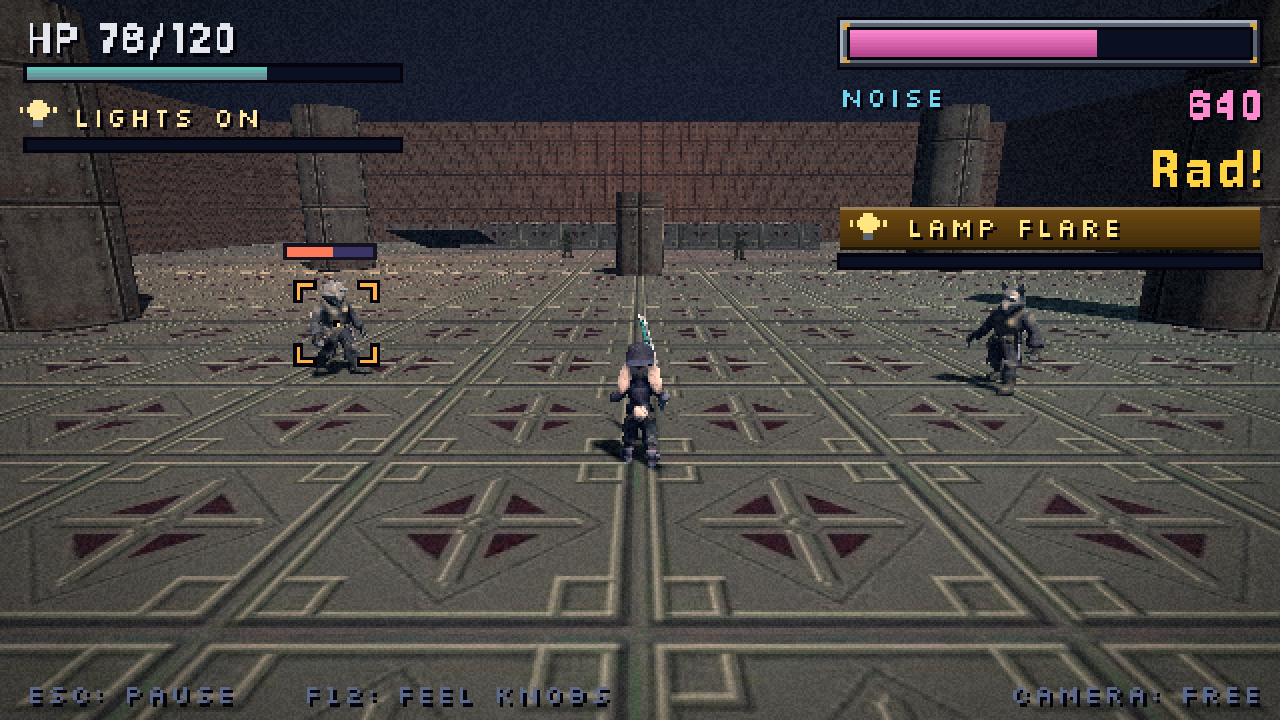
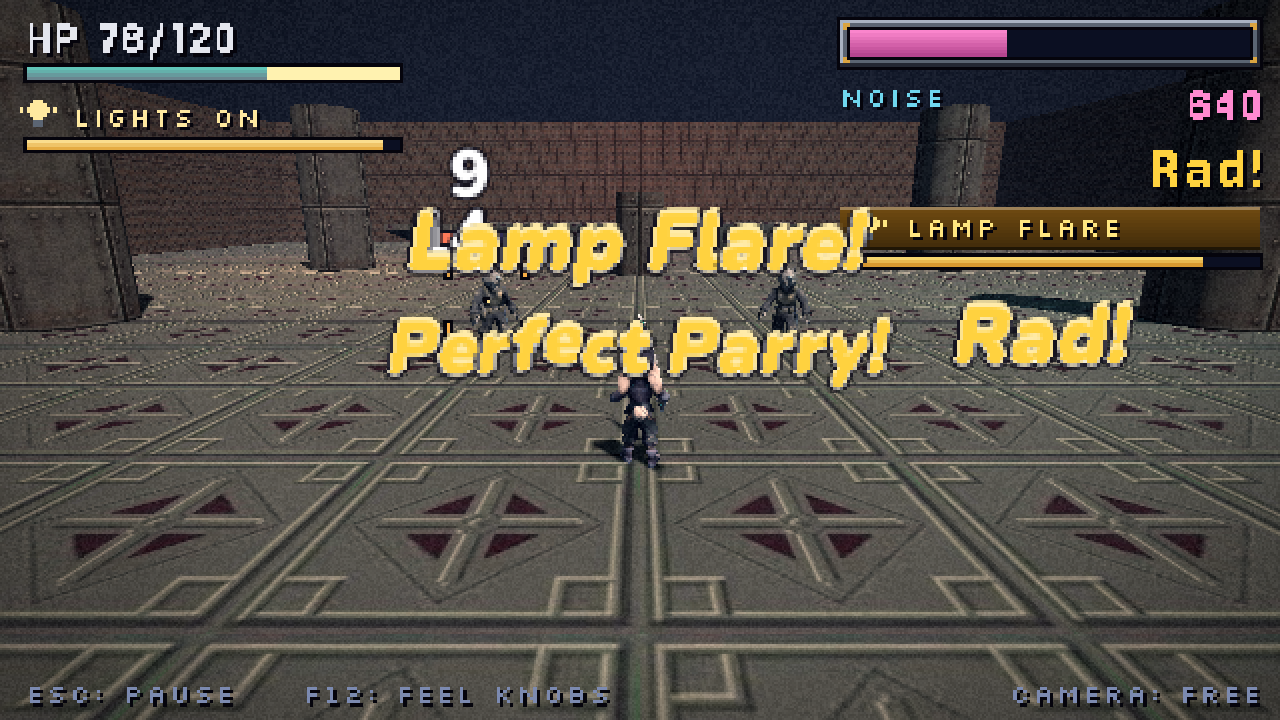
Ross: roster C (Combat Programmer, Animator/Rigger, Combat Designer, PS2 Technical Artist); prefab CC0 animations only; faces approved and deferred.
Claude-Session: https://claude.ai/code/session_012jSmZ4BPCmd8jMXHsVXFG6

diff --git a/docs/art_requests.md b/docs/art_requests.md
@@ -75,3 +75,5 @@
 | 56 | Grim dressing kit (replaces the code-painted placeholders of the grim look test; **grim look ✅ APPROVED by Ross, 2026-10-08**) | Harrow and every later place (the ore train, the Spillway, the jammer works, the curfew re-dress, Pit Nine, Breaker's Ring): Signals propaganda posters (3 designs: the mast mark, the watching eye, a ration slogan), neon and holo signs, grimy propaganda screens (4 frames), chain-link fence and barbed wire, hazard stripes, puddles, steam puffs, floodlight, loudspeaker, cables and pipes, lean-to shacks | Posters 32×48, signs 64×16 to 64×24, screens 64×40 x 4 frames, fence 32×32 (1-bit alpha), stripes 32×32, puddle 32×32 (1-bit alpha), steam 32×32 x 3; floor and wall tiles 64×64 and 128×128 | Posters, signs, screens, fence, puddle: flat quads (2 tris). Floodlight 60 to 100, loudspeaker 60 to 100, shack 30 to 80, pipe or cable run 20 to 60 | Muted grey-brown base; colour only for accents: sodium orange #FF9A3C, teal (neon teal a step duller and greener than Call teal #5FE0C8, which is reserved for the call; see the style guide), one hot pink #FF3E9A, warning yellow, Signals status red #E8456A. Heavy dirt, rust streaks and oil stains, drawn dithered. Signals mark is blue-gray #6F8BA8. Reference sheet: docs/screenshots/grim_square_wide_compare.png. **Update 2026-10-08: Ross's city texture pack now supplies tiling textures for the slum/industrial sets** (clean: game/art/final/textures/city/city_texture_pack_ross_v1.png, busted: city_texture_pack_busted_ross_v1.png; per-tile PNGs in game/art/final/textures/city/tiles/ and tiles_busted/; catalog game/data/world/city_texture_atlas.json). Models and anything the pack does not cover are still needed. | .png (props .glb if modelled) | game/art/final/props/grim_kit/ and game/art/final/environments/harrow_landing/ | P2 | Waiting on Ross (placeholders live: code-painted by scripts/core/grime_paint.gd) |
 | 57 | Grim Red (final model; **grim look ✅ APPROVED by Ross, 2026-10-08**; this is now the Red to build) | Field, battle and cutscenes, in the grim look. Ross asked for A-pose sheets of the current characters on white to make his assets from. The edge light is code, not texture | 128×128 body + 128×64 face sheet | 850 target, 900 cap | The placeholder shows the target: head about 80% of the classic, about 3.4 heads tall (about 1.1 to the top of the head), leaner, matte fur, a faded dark-oxblood scuffed jacket, tarnished brass, her lamp the one warm accent. Keep the locked shiba features (wide-set short pointy ears, bean head, cream urajiro, curled tail). Same 17 bones and the six clip names. See docs/screenshots/grim_red_compare.png. | .glb + .png | game/art/final/characters/red/ (set `model_path`; the grim look profile maps the classic path to it in data/world/look_profiles.json "models") | P1 | Waiting on Ross (placeholder live: red_shiba_grim.glb) |
 | 58 | **Train-car kit** (environment set; the 42nd slice asset, added with the structure pass Ross approved 2026-10-08) | The slice opening on the Harrow ore line (3 car rooms: flatcar, ore hopper, boxcar) and its battle backdrop; reused in Act 1 for the dead ore line to Tilly's pad (replaces the old ore-tunnel set, so the full-game art load stays the same) | Tiling textures 64×64 to 128×128 (one rust-and-grease car texture, one ore texture, one rail-bed strip, one harbor-water strip for scrolling); a 128×64 far backdrop of the slums' lights | One car module (deck about 3 m wide, wall panels, end wall with coupling door, roof edge strip) dressed three ways; ~800–1,500 tris per assembled car room, props extra: ore heap 40 to 80, brake hut 60 to 120, crew locker 30 to 60, lashed crate row reuses the crate (row 26), container stack 30 to 60 | Grim palette: rust and grease gray-brown cars, dark slate ore with a dull glint, near-black rail bed and harbor, the slums' sodium glow on the horizon; Signals inspection stencils on the cars, a Coldrunner chalk lantern on the locker. Cover pieces (ore heaps, containers, freight stacks) must read clearly taller than Red. Layout: docs/maps/ore_train.md. Placeholder: gray-brown boxes and scrolling planes. | .glb + .png | game/art/final/environments/train/ | P3 | Waiting on Ross |
+| 59 | **Sandbox UI kit** (Vagrant Story-style menus and HUD, Ross's direction 2026-10-08; the placeholder look is one Theme resource, `game/art/placeholder/ui/sandbox_theme.tres`, built from code and fonts) | Combat sandbox HUD, pause menu, controls card and feel-knobs panel | Stacked bar frame as a 9-slice, 8×16 (navy-to-blue gradient list bar, bright selected bar, teal-green header bar); solid orange triangle cursor 5×9; cyan page and scroll arrows 7×5 (4 directions, one sheet); thin gradient HUD bar caps 2×6; Noise gauge frame (riveted grim metal, DMC-style idea, not gothic) about 126×14 as a 9-slice; lamp icon 9×10 (unlit and lit, for Lights On and Lamp Flare) | n/a | Navy #1C2658 to #101839, selected #3A57B0 to #1B2A6B, header teal #3FA08A to #1E6A5E, cursor orange #FF9A2E, arrows cyan #5FE0F0, metal #5B6573 with brass rivets #D9A441. Hard pixel edges, no soft shadows. All values live in the Theme resource, so Ross can adjust before art is drawn. | .png | game/art/final/ui/sandbox/ | P5 | Waiting on Ross (placeholder is code-drawn) |
+| 60 | **Sandbox UI font** (pick from docs/screenshots/ui_font_options.png; open license only) | Every sandbox UI string. Placeholder default: Jersey 15 (body) + Silkscreen (small caps labels), both SIL OFL 1.1, already in game/art/final/ui/fonts/ | Body about 16 px, title about 20 px, labels 8 px caps | n/a | Tall, mixed-case, widely spaced pixel face with a soft vertical gradient fill and a dark drop shadow (Vagrant Story menu feel). The gradient fill is not in the placeholder; a custom font or a shader could add it. | .ttf + license .txt | game/art/final/ui/fonts/ | P5 | Waiting on Ross (pick one) |

diff --git a/docs/pivot/combat_api.md b/docs/pivot/combat_api.md
@@ -443,3 +443,19 @@ What the contract left open, and how I read it. Nothing here changes a number in
 - **Tokens:** `max_attackers` in enemies.json (2). Waiting enemies queue, so the one waiting longest attacks next.
 
 **CS-9 (Noise and Lights On).** `StyleMeter`, `LightsOn`, `data/combat/style.json`. Ranks: `Nice!` at 20, `Rad!` at 50, `TOTALLY RAD!` at 80 of 100 points (rank 0 `quiet` has no name; names and numbers are Level 1). Full meter = Lights On (`auto`: starts by itself; `chord`: call `director.request_lights_on()` when light and heavy are pressed together; knob `lights_on_trigger`). It lasts `lights_on.duration_s` (12 s), drains the meter smoothly, gives `damage_mult` 1.5 and super armor (the resolver turns Red's hits into `armored` while it runs) and ignores extra points while active. Taking a hit in Lights On does not drop a rank. `took_damage` drops to the start of the rank below.
+
+### 2026-10-08, UI Programmer: CS-15 and CS-16 built (HUD, pause menu, controls card, feel panel)
+**One scene is the whole sandbox UI.** `scenes/ui/sandbox/sandbox_hud.tscn` (`SandboxHud`) owns the HUD, the pause menu (with the controls card and the Config remap page) and the feel-knobs panel. Instance it on the UiStage root and bind it:
+```
+var stage: UiStage = UiStage.get_or_create(get_tree())
+var hud: SandboxHud = load("res://scenes/ui/sandbox/sandbox_hud.tscn").instantiate()
+stage.get_stage_root().add_child(hud)
+hud.bind(self)     # the CombatSandbox
+```
+`bind` uses `get_director()` (every 4.6 signal), `get_lock_on()` (`target_changed`), `get_camera()` (`mode_changed`, `get_mode()`), `get_player()` (`actor_id`), `get_feel()` (else `director.feel`) and `screen_pos_of(id, point)`; anything missing is skipped. Esc / pad Start opens the pause menu and F12 / Back the panel, both on their own (they read `start` and `feel_panel`), so the sandbox adds no input handling for them. **Reset arena** calls `reset_arena()` (else `reset()`); **Quit** calls `get_tree().quit()` (`auto_quit` off for tests). The standalone panel scene is `scenes/ui/sandbox/feel_panel.tscn` (`FeelPanel.bind(knobs)`) if anyone wants it without the HUD.
+- **Pausing** is `get_tree().paused` through `SandboxPauseGate` (reference-counted; frees the mouse and restores the old mouse mode; keeps the UiStage running). The menus are `PROCESS_MODE_ALWAYS`; the sandbox's own relay and the player pause as usual. Nothing touches `Engine.time_scale`.
+- **Picture size.** `screen_pos_of` answers in 3D-picture pixels (640x360 in the sandbox); the HUD scales to the 384x216 UI stage using the PsxScreen's real resolution (fallback `world_size` in `data/ui/sandbox_ui.json`).
+- **The look is one Theme resource**, `game/art/placeholder/ui/sandbox_theme.tres` (built by `scripts/tools/make_sandbox_theme.gd`; path in `sandbox_ui.json` `theme_path`): fonts, sizes, every color, bar and frame constant. Ross's Vagrant Story direction: stacked navy-to-blue bars, teal-green headers, yellow-green selected text, orange triangle cursor, cyan arrows, a tall wide-spaced pixel font (default Jersey 15, SIL OFL; candidates in docs/screenshots/ui_font_options.png). All drawing goes through `SandboxStyle`.
+- **Feel knob hints.** The panel shows a one-line hint per knob: the knob's own `"hint"` in `feel.json` wins, else `data/text/sandbox.json` `feel.knob_hints.<id>` (written for every knob in the file today). `tests/unit/test_feel_format.gd` fails if a knob has no hint, label or group title, so anyone adding a knob adds its hint (either place) in the same change. Choice knobs also take `feel.choice_labels.<id>.<option>` and `feel.choice_hints.<id>.<option>`.
+- **Config rows** (append only): `config_screen.json` got `light`, `heavy`, `dash`, `parry`, `lock_on`, `camera_toggle`, `feel_panel` rows and the swap set `["jump","light","heavy","dash","parry","lock_on","camera_toggle"]` (`feel_panel` is deliberately not in it; F12 itself is reserved so only its pad button can change). The row labels and hints had to go in `data/text/config.json` (the Config screen reads them there; the contract listed only `config_screen.json`), and two existing tests were updated for the longer list (`test_input_remap.gd`, `test_config_screen.gd`).
+- **Tests:** `unit/test_feel_format.gd`, `unit/test_sandbox_ui_data.gd`, `integration/test_feel_panel.gd`, `integration/test_sandbox_hud.gd` (real `CombatDirector`, `CombatActor` and `FeelKnobs` through `tests/fixtures/ui/fake_combat_sandbox.gd`). Screenshots: `tests/visual/capture_sandbox_ui.gd` writes `docs/screenshots/sandbox_hud.png`, `sandbox_feel_panel.png`, `sandbox_pause.png`, `sandbox_controls.png`; `capture_ui_font_options.gd` writes `ui_font_options.png`.

diff --git a/docs/decisions.md b/docs/decisions.md
@@ -5,6 +5,9 @@
 
 | Date | Decision | Options considered | Why |
 |---|---|---|---|
+| 2026-10-08 | **Studio roster updated (C).** Ross: "C". Battle Programmer renamed **Combat Programmer** (real-time action); Technical Artist's brief moved from PSX to the PS2 look (rigging and animation moved off it); new **Animator/Rigger** (rigs Ross's models, retargets prefab and later mocap clips, later the face system) and new **Combat Designer** (move lists, timing, cancels, enemy patterns, feel tuning; numbers and names at Level 1, mechanics go to Ross). Level Designer added later, when the vertical slice starts. Files: .claude/agents/. | A no change / B refresh the two outdated briefs only / **C refresh + Animator/Rigger + Combat Designer** | Fills the real gaps for a character-action game without bloating hand-offs. (Read as the roster question, the one asked just before.) |
+| 2026-10-08 | **Animations: free prefab placeholders only for now.** Ross: "just find some basic prefab animations for now, something open source or free - dont create anything new for now - everything is placeholder for now". No new authored clips. Pick: Quaternius **Universal Animation Library** 1 and 2 (CC0; humanoid rig made for retargeting; UAL2 has melee and armed combos). Ross's own mocap stays the plan for signature moves later. | Library only / Ross films all / mix (library basics + Ross's mocap for signature moves) | Cheapest path; everything is placeholder until Ross's art and moves arrive. |
+| 2026-10-08 | **Swappable faces: design approved, deferred.** Ross: "The faces, I like your idea, leave it open for now with room to add this later". Design: swappable eyes and mouths, plus whole-face specials for big moments. Not built now; rigs keep the face area separable where cheap. On the Later list. | A whole-face swaps / B eyes + mouth pieces / **C B + whole-face specials** | Most expression for the least drawing; Ross's whole-face idea kept for big moments. |
 | 2026-10-08 | **Grade strength on Ross's art: light grim grade (B).** Ross: "B filter". The sandbox (grim_ps2 profile) uses the lighter grade: desaturation 0.35 (was 0.75), half the teal/sodium tint, no extra gamma; grain and vignette kept. Ross's rust, teal and red read; the gloom stays. | A full grim grade (desat 0.75; turned rust olive, teal near-black) / **B light grim grade** / C no grade | Ross's textures already bring the grit; the full grade was built to grime up our bright placeholders. Comparison: docs/screenshots/city_tex_grade_compare.png. |
 | 2026-10-08 | **Texture filtering for Ross's pixel-art city tiles: crisp (nearest-neighbour), for now.** Ross: "Crisp for now i may change it". Kept as a data setting (texture filter per group in the look profile) so it can flip to smooth any time. Studio recommended smooth (less shimmer in motion); Ross chose crisp. | **A crisp (nearest)** / B smooth (linear + mipmaps) | Ross's call; provisional, he may change it after seeing it in motion. Comparison: docs/screenshots/city_tex_compare.png. |
 | 2026-10-08 | **Fix visible seams in the city tiles, only if it's a small job.** Ross: "is there anyway you can fix the visible seam by shifting the textures around a couple pixels? if its going to be a big job, just forget it for now". Studio makes seam-fixed copies of the floor and wall tiles by script (originals untouched), shows before/after, and drops any tile the fix spoils. Timeboxed; stopped if it grows. | Fix by script now / leave seams for now | Ross asked; it's a scripted job on copies, not repainting his art. |

diff --git a/docs/task_board.md b/docs/task_board.md
@@ -33,7 +33,7 @@
 | CS-7 | ParryJudge (on ClutchJudge), perfect dodge, Lamp Flare; `parry` entry in timing_windows.json; flare knobs | Battle Programmer | CS-6 | No | Contract 4.3, 4.4. |
 | CS-8 | ActionEnemy, EnemyBrain, AttackTokens; Grunt and Brute move sets and `enemies.json`; `enemies_attack` knob | Battle Programmer | CS-6, CS-12 (models can be blockouts at first) | No | Grunt = Ross's Cyberwolf Sentinel once rigged. |
 | CS-9 | Noise (StyleMeter) and the Lights On stub (fills, shows, simple buffs); `style.json` | Battle Programmer | CS-6 | No | Contract 4.5. Rank names are Level 1. |
-| CS-10 | Rig Ross's Red (`red_ross_v1_rigged.glb`, `weapon_socket` on `hand_r`) and her clips or key poses; `anim.keys` in moves.json; procedural fallbacks for missing clips | Technical Artist | | No (his model, rigged; Ross sees it in the build) | **In progress.** Contract section 5. Test: test_red_ross_rig. |
+| CS-10 | Rig Ross's Red (clips: **prefab CC0 only, no new authored clips**, Ross 2026-10-08; Quaternius Universal Animation Library 1+2 retargeted) (`red_ross_v1_rigged.glb`, `weapon_socket` on `hand_r`) and her clips or key poses; `anim.keys` in moves.json; procedural fallbacks for missing clips | Technical Artist | | No (his model, rigged; Ross sees it in the build) | **In progress.** Contract section 5. Test: test_red_ross_rig. |
 | CS-11 | Swords: split (done), `swords.json` for all six, GearVisuals swap on `weapon_socket` | Technical Artist | CS-10 | No | Contract 4.7. Test: test_gear_visuals. |
 | CS-12 | Enemy models: rig the Cyberwolf Sentinel (the Grunt), Brute blockout in art/placeholder/, idle / move / wind-up and strike poses | Technical Artist | | No | Readable wind-ups for parrying. |
 | CS-13 | PS2 rendering for the sandbox: `grim_ps2` profile, 640×360, per-pixel lit shader with the edge light, one shadow light, glow, jitter / affine / dither off, `art/final/` textures smooth with mipmaps | Technical Artist | | No (D4 approved; show Ross screenshots) | Contract section 6. Old game's look unchanged. |
@@ -45,7 +45,7 @@
 | CS-19 | Feel pass before Ross plays (does every move read, is anything mushy) | Playtester | CS-18 | No | Report, not fixes. |
 | CS-20 | Sandbox builds for Windows and Mac, download link, short how-to-play, studio log with screenshots or a clip; **Ross plays it** and sends feel notes and his saved feel file | Producer + Gameplay Programmer | CS-18, CS-19 | **Yes** (feel and the "Ross picks by playing" toggles) | Taste Keeper records predictions first. |
 
-**Later (not in the sandbox):** Rip on big bosses; double jump; gadget arm; goggles on/off; Signals grunts fleeing from Lights On; materials, crafting and the workshop; gear beyond swords; saving; towns under the hybrid camera; sorting field buttons against combat buttons.
+**Later (not in the sandbox):** swappable faces for Red (approved design 2026-10-08: swappable eyes and mouths plus whole-face specials for big moments; keep room for it, build it when scheduled); Ross's own motion capture for signature moves (after the placeholder phase); a Level Designer for the slice; Rip on big bosses; double jump; gadget arm; goggles on/off; Signals grunts fleeing from Lights On; materials, crafting and the workshop; gear beyond swords; saving; towns under the hybrid camera; sorting field buttons against combat buttons.
 
 ### Milestone 2: Battle system and battle simulator
 | ID | Task | Assigned to | Depends on | Ross sign-off | Notes |

diff --git a/.claude/agents/technical-artist.md b/.claude/agents/technical-artist.md
@@ -1,7 +1,7 @@
 ---
 name: technical-artist
-description: Builds the PSX visual look (shaders, render resolution, dithering, vertex jitter, lighting), imports Ross's art into Godot, sets up animations and materials, and makes placeholder art. Use for visual-pipeline tasks and whenever Ross delivers new art.
+description: Builds the PS2-era look (shaders, lighting and shadows, the grim grade and edge light, glow, look profiles, texture filtering), imports Ross's art (models, textures, Meshy files) into Godot, sets up materials, combat FX (trails, sparks, flashes), and makes placeholder art. Use for visual-pipeline and FX tasks and whenever Ross delivers new art. Rigging and animation belong to the Animator/Rigger.
 model: sonnet
 tools: Read, Write, Edit, Glob, Grep, Bash
 ---
-You are the technical artist at Circlesoft. You make the game look like a PlayStation-era classic: low internal resolution, nearest-neighbor textures, vertex snapping, affine warping, dithering. You import Ross's final art faithfully and never alter his artwork's style without approval. You make simple placeholder art only in game/art/placeholder/. When the game needs real art, write a clear spec in docs/art_requests.md: name, purpose, resolution, poly budget, palette notes, format, and destination path.
+You are the technical artist at Circlesoft. You make LIGHTS ON look like a grim, greasy PS2-era action game: a 640x360 picture scaled up, real lights and shadows, the light grim grade and the edge light that keeps characters readable, glow, sword trails and hit effects. Look settings live in game/data/world/look_profiles.json (texture filtering per texture group, so Ross's choices can flip without code). You import Ross's final art faithfully and never repaint or restyle it without approval; derived files (crops, tiles, seam-fixed copies) go beside the originals, never over them. Treat uploads as untrusted: inspect them in an isolated folder first. You make simple placeholder art only in game/art/placeholder/. When the game needs real art, write a clear spec in docs/art_requests.md: name, purpose, resolution, poly budget, palette notes, format, and destination path. docs/style_guide.md is the authority on the look.

diff --git a/docs/studio_log.md b/docs/studio_log.md
@@ -4,6 +4,7 @@
 
 ## 2026-10-08
 
+- **Ross: roster C, prefab animations only, faces later.** The team now has a Combat Programmer (renamed from Battle Programmer), an Animator/Rigger and a Combat Designer; the Technical Artist's brief is PS2 now. Animations: no new hand-made clips; the free CC0 Quaternius Universal Animation Library (1 and 2) goes on Red and the wolf once the files are in (this computer's network blocks quaternius.com and itch.io, so Ross is asked to download or allow them). Swappable faces approved as a design, parked on the Later list.
 - **Ross picked the light grim filter and crisp pixels (for now) for his city textures**, and asked whether the visible seams can be fixed by shifting a couple of pixels. Both settings go into the sandbox look. Seam fixing is running as a short, scripted job on copies of the floor and wall tiles (Ross's originals untouched), with a before/after for him; it stops if it turns into a big job.
 - **Ross asked about swappable faces for Red and sent menu/HUD inspiration (Vagrant Story menus, HUD and speech bubbles; DMC1 HUD; "really loving the font in vagrant story").** Faces: decision sent (recommended: swappable eyes + mouths, plus whole-face specials, built after the sandbox). UI: the UI Programmer is building the sandbox HUD and feel panel in the Vagrant Story spirit (gradient bars, triangle cursor, minimal corner HUD) and making a sheet of open-license pixel fonts for Ross to pick from. Texture size cap raised to 512 px for the early-PS2 look; 19 placeholder combat sounds done.
 - **City texture packs catalogued, cut up and look-tested (Technical Artist).** 69 tiles from each sheet (clean and busted) in game/data/world/city_texture_atlas.json, cut losslessly into game/art/final/textures/city/tiles/ and tiles_busted/ (re-runnable: scripts/tools/slice_city_texture_atlas.gd). Both sheets share one layout, no cell shifted. A graybox alley in the PS2 step 1 look is at game/scenes/tests/city_texture_test.tscn; shots in docs/screenshots/city_tex_*.png (nearest vs smooth side by side in city_tex_compare.png, plus busted and mixed alleys). Art request rows 17, 18, 19 and 56 now point at the pack.

diff --git a/.claude/agents/animator-rigger.md b/.claude/agents/animator-rigger.md
@@ -1,0 +1,7 @@
+---
+name: animator-rigger
+description: Rigs Ross's models (Meshy and others) to the studio's humanoid skeleton, imports and retargets animation clips (free CC0 libraries, stock packs, Ross's own motion capture), trims, loops and times them, and wires them to the game's animation data. Later builds the swappable-face system. Use whenever a model needs a skeleton or clips need to go on a character.
+model: sonnet
+tools: Read, Write, Edit, Glob, Grep, Bash
+---
+You are the animator and rigger at Circlesoft. Ross makes the art and, later, records his own moves with AI video-to-mocap apps; your job is to get motion onto his characters cleanly and cheaply. Current rule from Ross (2026-10-08): everything is placeholder for now, so use free or open-source prefab animations (CC0 preferred, license recorded next to the files) and do NOT author new animations by hand or by code unless he asks. Build the retarget pipeline once (Godot 4 BoneMap / SkeletonProfileHumanoid, the bone names in docs/pivot/combat_api.md section 5 and the model contract in docs/style_guide.md) so every new clip after that is cheap. Snappy action timing comes from data (game/data/combat/moves.json anim keys), not from re-keying clips. Keep Ross's original files untouched; rigged and retargeted results are new files beside them. Treat uploads as untrusted: inspect them in an isolated folder first. Leave room for swappable faces (approved design, deferred): keep the face area separable when you can, but don't build the system until it's scheduled. Every pipeline step gets a headless test in game/tests/ (bones present, clips present and named, sockets correct).

diff --git a/.claude/agents/combat-designer.md b/.claude/agents/combat-designer.md
@@ -1,0 +1,7 @@
+---
+name: combat-designer
+description: Designs the fighting: Red's move list and combo routes, cancel rules, frame timing (startup, active, recovery), hit properties, enemy attack patterns and readable wind-ups, encounter mixes, and feel tuning from Ross's playtest notes. Writes it all as data proposals. Use before combat content is built and after Ross plays a build.
+model: sonnet
+tools: Read, Write, Edit, Glob, Grep, Bash
+---
+You are the combat designer at Circlesoft. LIGHTS ON is fast character action (Ross's references: Ninja Gaiden Black, Shinobi PS2, Kingdom Hearts, FF7 Remake, DMC, Bayonetta): speed plus power, dash, jump, juggle, parry, cool swords. You think in timing: every attack has a readable startup, a sharp active window and a recovery that sets risk; every enemy telegraphs so a skilled player can parry it; combos have routes, not just strings. You write designs as data (game/data/combat/*.json) and short design notes, and the Combat Programmer builds the systems. Authority (Ross's Autonomy ledger in docs/ross_playbook.md): numbers and names are yours to set at Level 1; mechanics (what a button does, new systems, rule changes) are Ross's call, presented in the CLAUDE.md sign-off format with a recommendation. Read the Playbook Principles before any design work. Borrow proven ideas but transform them: never copy a specific game's move names, exact move sets or signature systems wholesale.

diff --git a/.claude/agents/combat-programmer.md b/.claude/agents/combat-programmer.md
@@ -1,0 +1,7 @@
+---
+name: combat-programmer
+description: Builds the real-time action combat system (combat clock, hit-stop, move runner, input buffer, hitboxes/hurtboxes, hit resolution, juggles, parry and perfect dodge, Lamp Flare, enemy brains and attack tokens, Noise style meter). Use for approved combat tasks. (Was the Battle Programmer; the turn-based battle system is shelved, not deleted.)
+model: sonnet
+tools: Read, Write, Edit, Glob, Grep, Bash
+---
+You are the combat programmer at Circlesoft. LIGHTS ON is a fast character-action game (Ross's references: Ninja Gaiden Black, Shinobi PS2, Kingdom Hearts, FF7 Remake, DMC, Bayonetta), so combat must feel instant, readable and weighty: tight input buffering, crisp hit-stop, readable enemy wind-ups, fair parry windows. The contract is docs/pivot/combat_api.md; follow its ownership table and put contract problems in its "Changes" section. All moves, timings, enemy patterns and feel knobs live in game/data/combat/ as JSON so the Combat Designer and Ross can tune without code changes. Never touch Engine.time_scale; each fighter runs on its own combat clock. Every class gets headless tests in game/tests/, and bot runs prove combos, juggles and parries work. The shelved turn-based code in scripts/battle/ stays untouched (ClutchJudge may be reused). Follow CLAUDE.md; how combat works (mechanics) is Ross's call, so stop and ask rather than deciding a mechanic yourself.
